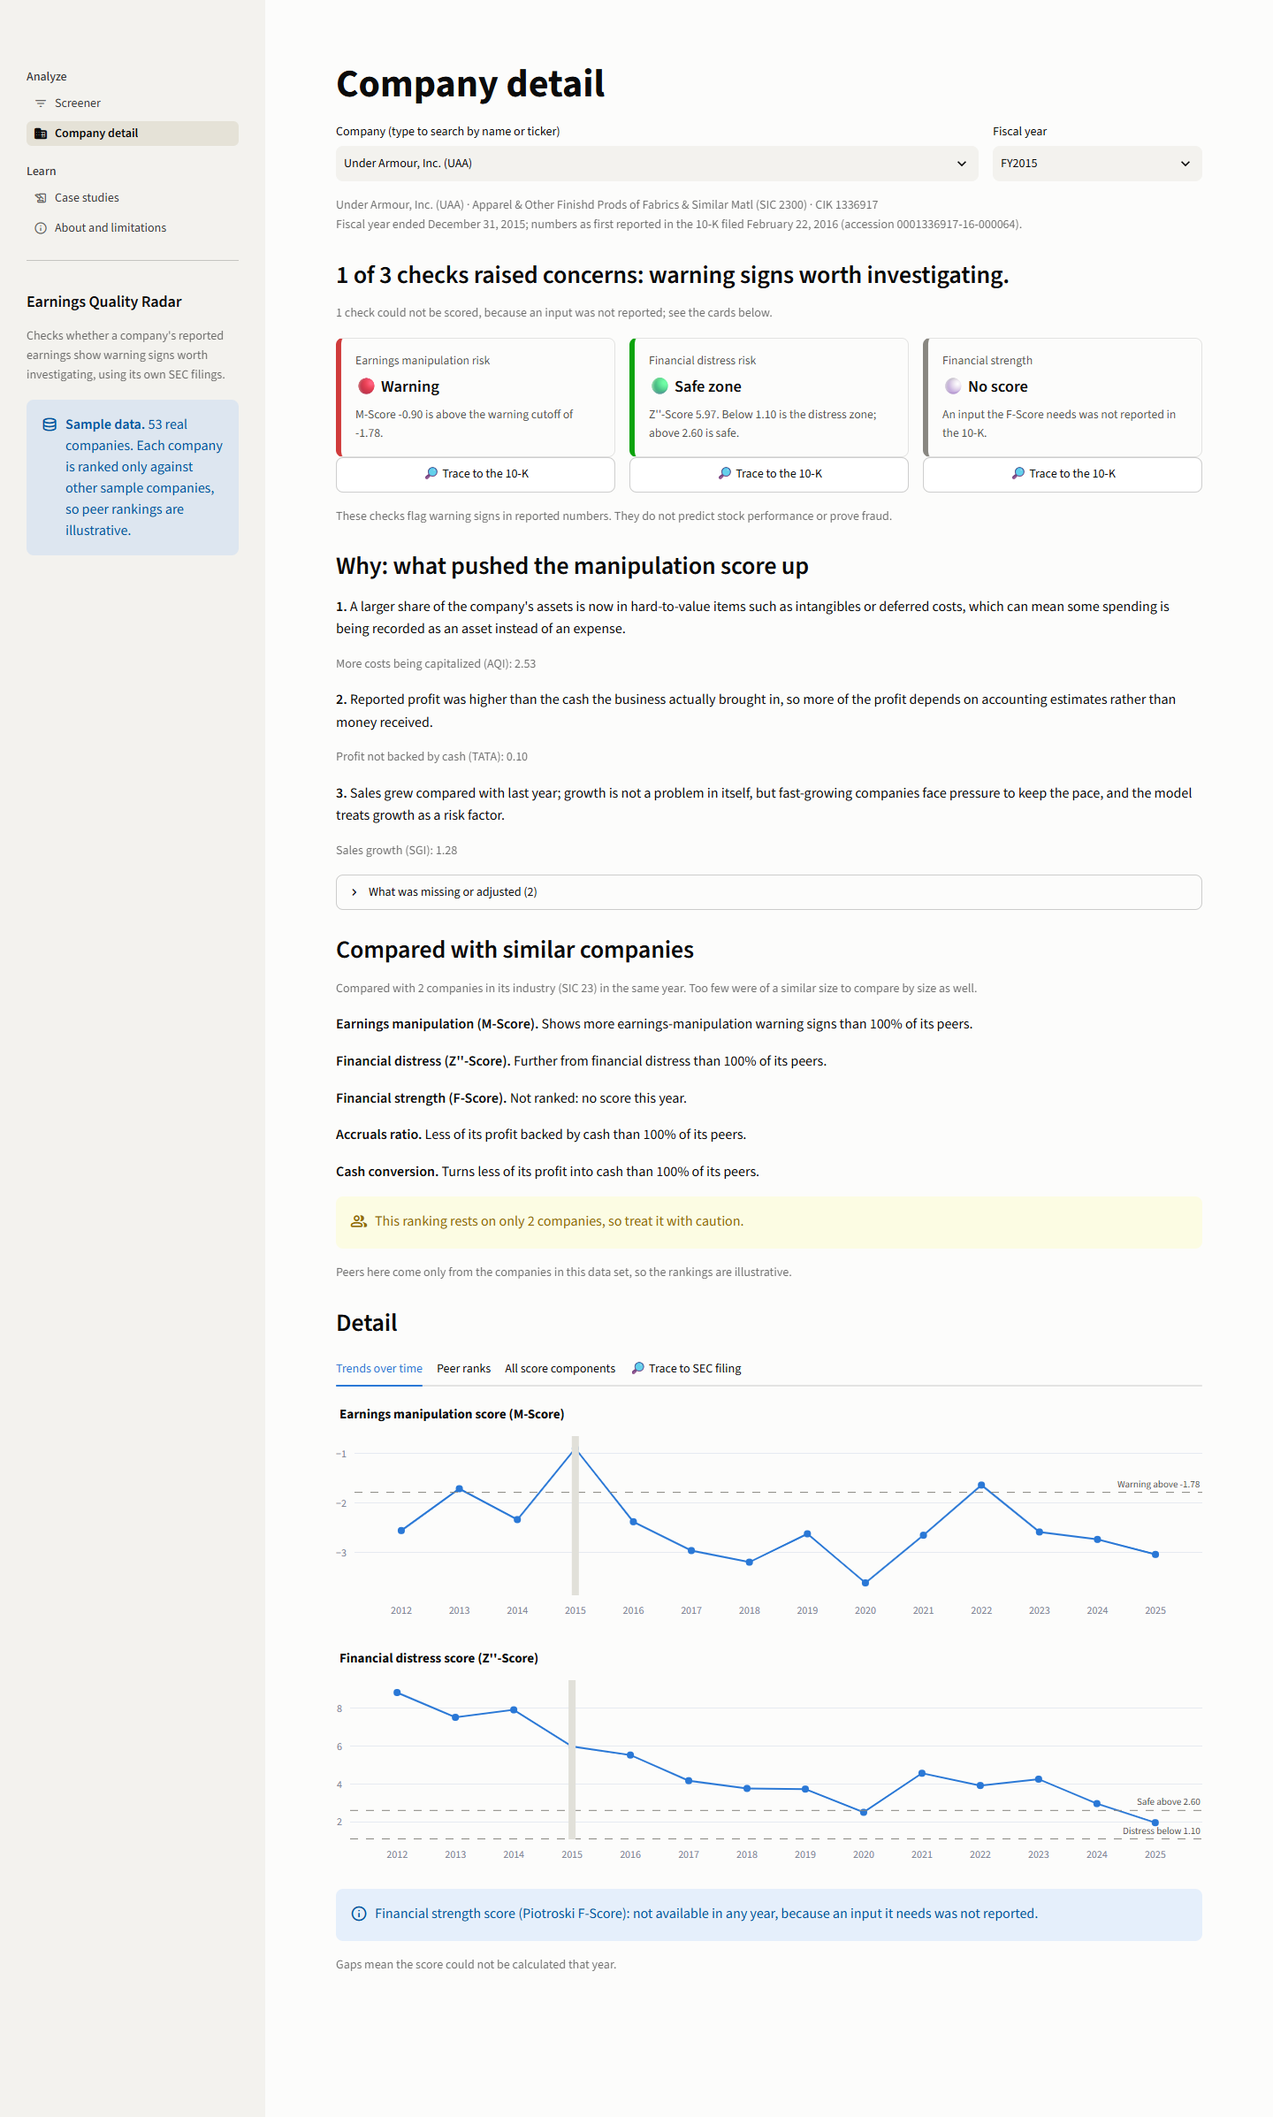
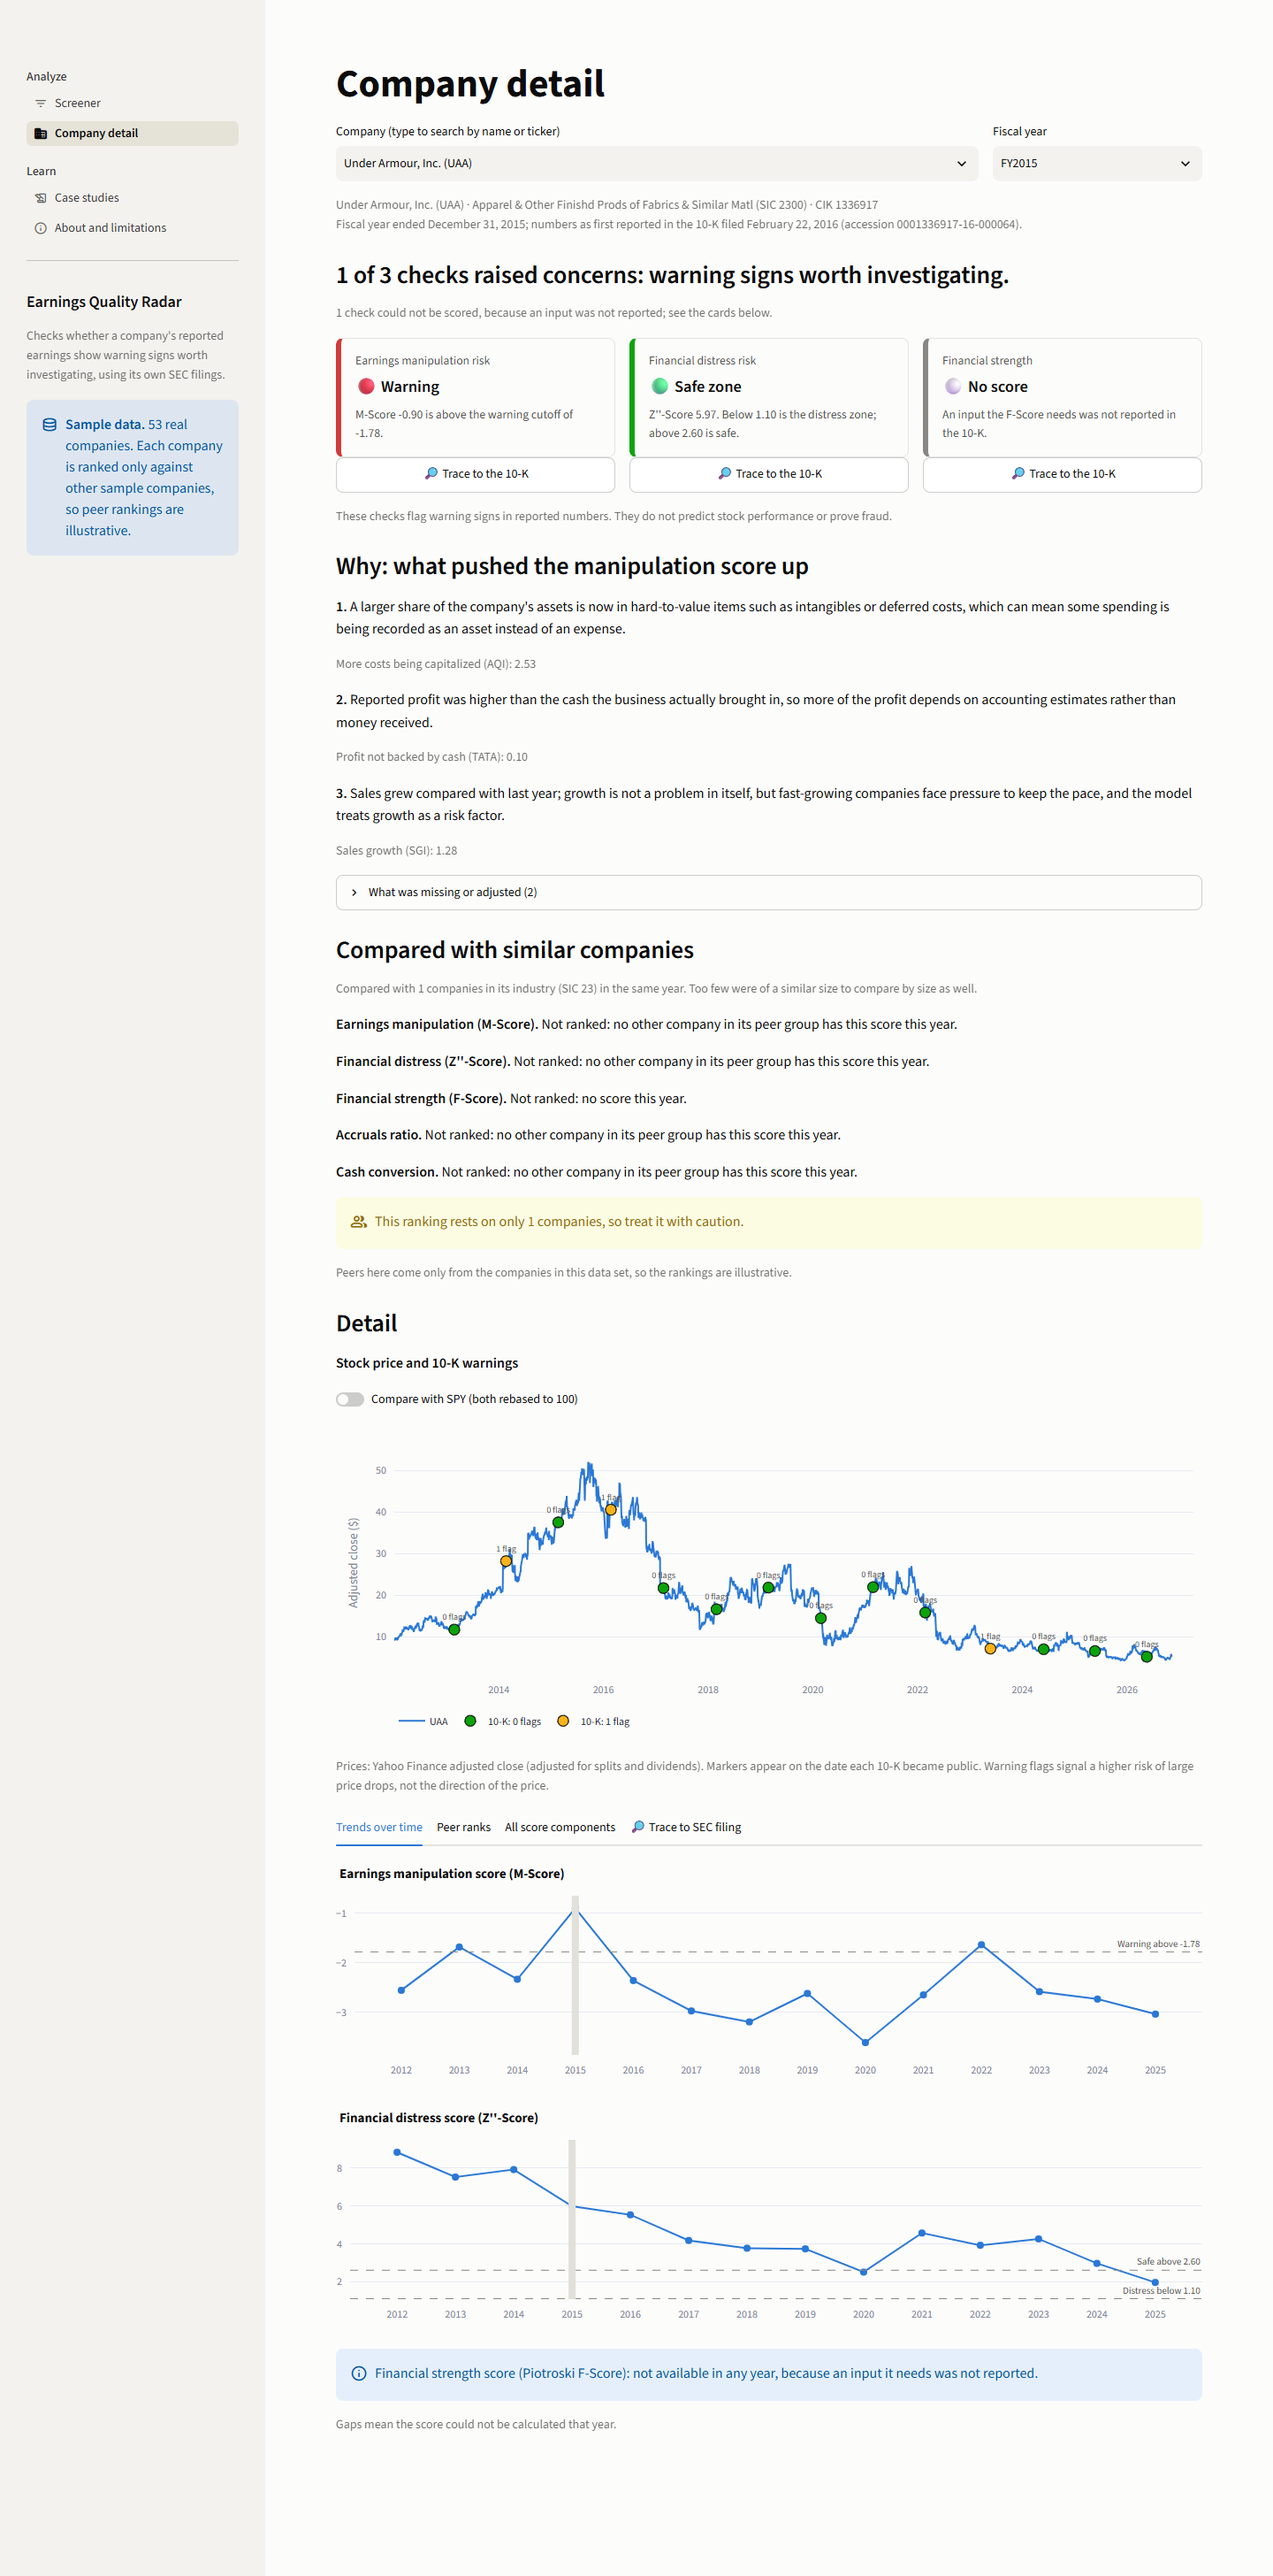
Price chart step 4: About and README sentences, offline screenshots
The About page and README now mention the price chart. The screenshot
script adds close-ups of the company and case-study charts
(09_price_chart_company.png, 10_price_chart_case.png) and starts Chrome
with every non-localhost address blocked, so the shots also show the
pages load offline. All shots re-captured on the sample.

diff --git a/docs/screenshots/capture_screenshots.py b/docs/screenshots/capture_screenshots.py
@@ -13,7 +13,9 @@ change so the backup slides match the live demo.
 
 Needs Google Chrome (or set CHROME_PATH). It drives Chrome through its
 DevTools protocol with the "websockets" package, which Streamlit already
-installs, so no extra download is required. Only localhost is contacted.
+installs, so no extra download is required. Only localhost is contacted:
+Chrome is started with every other address blocked (see OFFLINE_FLAGS),
+so the shots also prove the pages load without an internet connection.
 """
 
 import argparse
@@ -101,6 +103,30 @@ SHOTS = [
     ),
     ("08_about.png", "/about", "Keeping the data current", None, None, True),
 ]
+
+# Close-ups of the price chart for the backup slides: (file name, path,
+# text that proves the page loaded, heading to scroll to the top). The
+# viewport is captured, not the full page, so the chart fills the shot.
+CHART_HEADING = "Stock price and 10-K warnings"
+CHART_SHOTS = [
+    (
+        "09_price_chart_company.png",
+        "/company?cik=1336917&year=2015",
+        "checks raised concerns",
+        CHART_HEADING,
+    ),
+    (
+        "10_price_chart_case.png",
+        "/case-studies?case=1",
+        "earnings manipulation check",
+        CHART_HEADING,
+    ),
+]
+
+# Send every non-localhost request to a closed local port, so a page that
+# needed the internet would fail here just as it would on the demo laptop
+# with Wi-Fi off. Chrome never sends localhost through a proxy.
+OFFLINE_FLAGS = ["--proxy-server=127.0.0.1:9"]
 
 # True once Streamlit has no spinner or skeleton on screen.
 JS_IDLE = """
@@ -196,6 +222,18 @@ class DevTools:
         if not clicked:
             raise RuntimeError(f"No button or tab labeled {label!r}")
 
+    async def scroll_to(self, text):
+        """Scroll the first element whose own text is text to the top."""
+        found = await self.evaluate(
+            "(() => { const el = [...document.querySelectorAll('p, strong,"
+            " h1, h2, h3')].find(e => e.innerText.trim() === "
+            f"{json.dumps(text)}); if (el) {{ el.scrollIntoView("
+            "{block: 'start'}); return true; } return false; })()"
+        )
+        if not found:
+            raise RuntimeError(f"No heading {text!r} to scroll to")
+        await asyncio.sleep(SETTLE_SECONDS)
+
     async def set_height(self, height):
         """Resize the viewport to VIEW_WIDTH x height."""
         await self.send(
@@ -231,6 +269,12 @@ async def capture_all(page_socket_url, output_dir):
                 await tools.click(action)
                 await tools.wait_for_text(after)
             await tools.screenshot(output_dir / name, full_page)
+            print(f"Saved {name}")
+        for name, path, ready, heading in CHART_SHOTS:
+            await tools.send("Page.navigate", {"url": APP_URL + path})
+            await tools.wait_for_text(ready)
+            await tools.scroll_to(heading)
+            await tools.screenshot(output_dir / name, full_page=False)
             print(f"Saved {name}")
 
 
@@ -277,6 +321,7 @@ def main(argv=None):
                 f"--user-data-dir={profile_dir}",
                 f"--window-size={VIEW_WIDTH},{VIEW_HEIGHT}",
                 "--hide-scrollbars",
+                *OFFLINE_FLAGS,
                 "about:blank",
             ],
             stdout=subprocess.DEVNULL,

diff --git a/app/views/about.py b/app/views/about.py
@@ -95,8 +95,11 @@ On a company page, the **🔎 Trace to the 10-K** button under each verdict
 (or the **Trace to SEC filing** tab) shows the formula, the stored
 result, the Python function that computed it, and every input with its
 XBRL tag, filing date, accession number and a link to the filing on
-EDGAR. All calculations live in the project's `src/` folder and are
-covered by automated tests and an Excel tie-out against the 10-Ks
+EDGAR. Where a stock price is available, the company page and each case
+study also chart it, with a marker on the date each 10-K became public
+colored by how many warnings that 10-K raised. All calculations live in
+the project's `src/` folder and are covered by automated tests and an
+Excel tie-out against the 10-Ks
 (`verification/`); this app only displays finished results.
 """)
 

diff --git a/README.md b/README.md
@@ -255,9 +255,9 @@ page reads finished tables and only filters and draws them.
 | Page | What it answers | Screenshot |
 | --- | --- | --- |
 | Screener | Which companies in a year show the most warning signs? Filters for fiscal year, industry, size, the M-Score cutoff (slider, default -1.78), Z'' zone and F-Score range; riskiest first; notes on who is excluded and why scores are blank | `01_screener.png` |
-| Company detail | In five seconds: a one-line verdict and three traffic-light cards. Then why (the stored `score_drivers` sentences), how it compares with peers (one sentence per percentile), and the detail (trends, peer ranks, every component) | `02_company_verdict.png` |
+| Company detail | In five seconds: a one-line verdict and three traffic-light cards. Then why (the stored `score_drivers` sentences), how it compares with peers (one sentence per percentile), and the detail (a stock price chart with a marker on each 10-K's filing date colored by its warning count, trends, peer ranks, every component) | `02_company_verdict.png`, `09_price_chart_company.png` |
 | Click-to-trace | For any score or part of one: the formula, the stored result, the Python function that computed it, and every input with its XBRL tag, period, filing date, accession number and EDGAR link. Opened from the button under each card or the "Trace to SEC filing" tab | `03_trace_popup.png`, `04_trace_tab.png` |
-| Case studies | Did the radar warn before a known accounting problem became public? Hits, misses and companies it could not score are all shown | `05`-`07_case_*.png` |
+| Case studies | Did the radar warn before a known accounting problem became public? Hits, misses and companies it could not score are all shown, with the same price chart and a dashed line on the event date | `05`-`07_case_*.png`, `10_price_chart_case.png` |
 | About and limitations | Data sources, universe rules, citations, coverage computed from the data on screen, and limitations | `08_about.png` |
 
 Design choices worth knowing:
